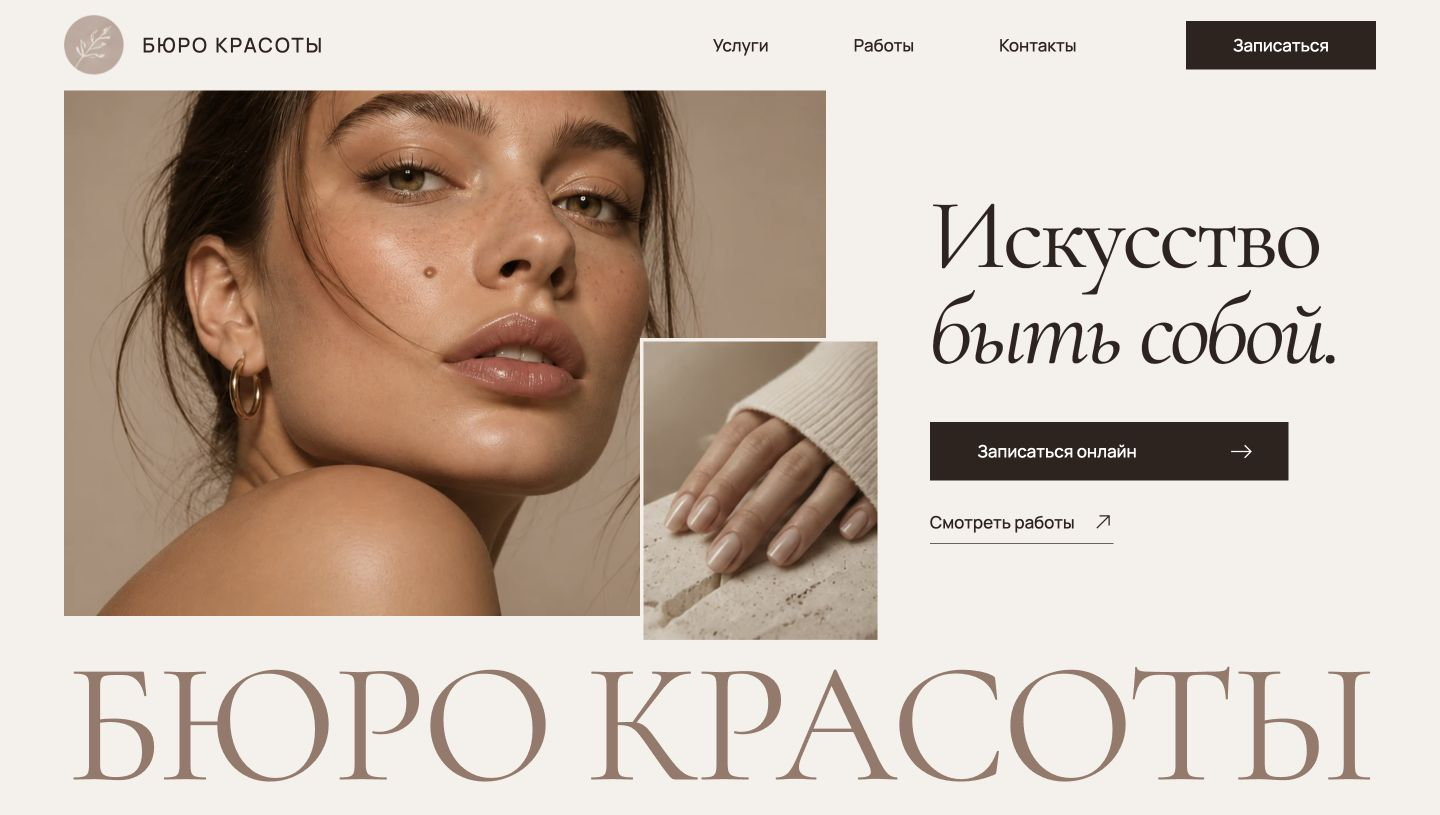
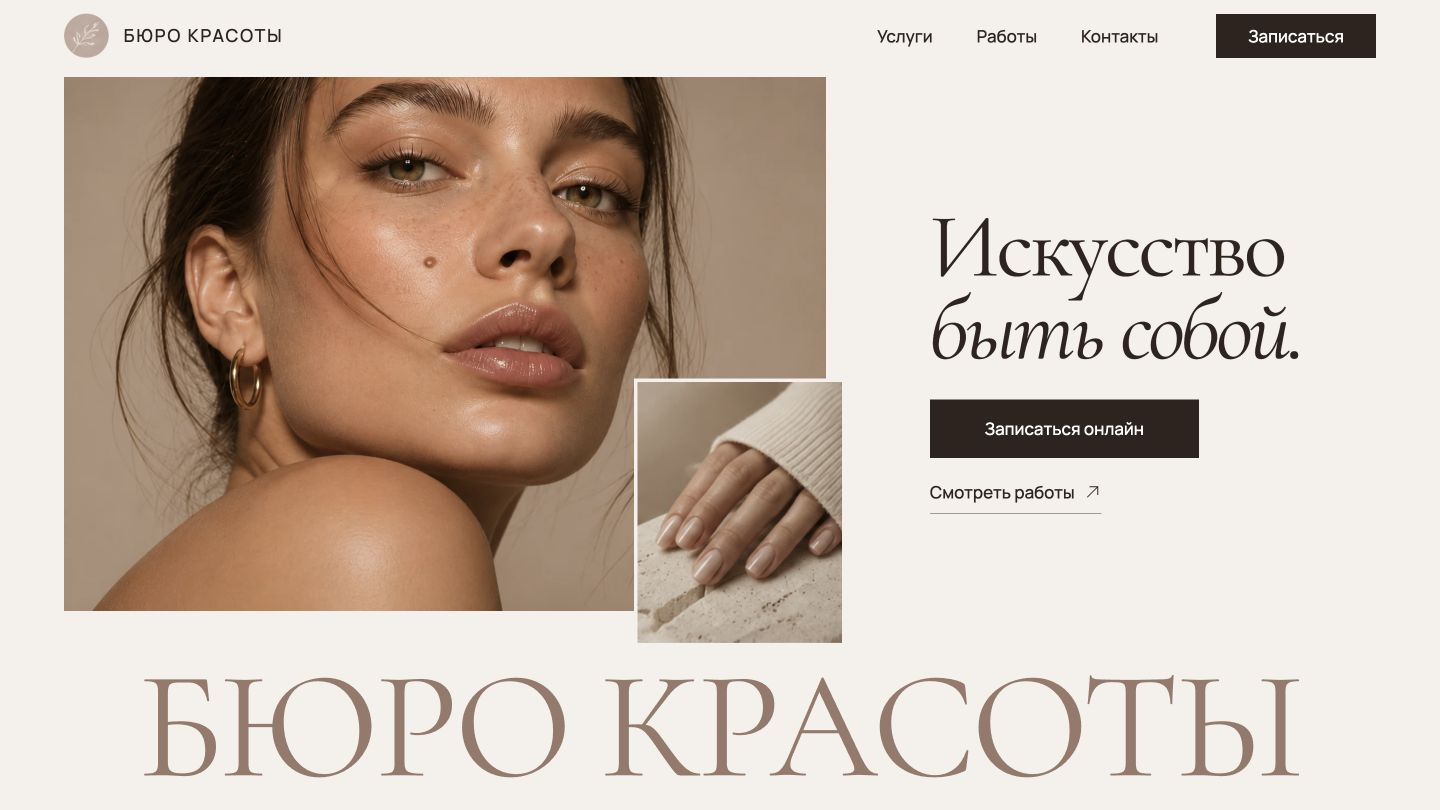
Refine the desktop hero composition

diff --git a/styles.css b/styles.css
@@ -119,7 +119,7 @@ svg { flex: none; }
 .site-nav {
   display: flex;
   align-items: center;
-  gap: clamp(26px, 5.9vw, 108px);
+  gap: clamp(27px, 3.05vw, 56px);
   margin-inline-start: auto;
 }
 
@@ -167,8 +167,8 @@ svg { flex: none; }
 .button:active { background: var(--ink-hover); }
 
 .header-booking {
-  min-inline-size: clamp(132px, 13.2vw, 240px);
-  min-block-size: clamp(44px, 3.35vw, 59px);
+  inline-size: clamp(140px, 11.11vw, 160px);
+  min-block-size: 44px;
   white-space: nowrap;
 }
 
@@ -241,12 +241,9 @@ svg { flex: none; }
   border-bottom: 0;
 }
 
-.hero__intro { margin-block-start: clamp(62px, 7.35vw, 144px); }
-
 .hero-title {
-  margin: 0 0 clamp(29px, 3vw, 58px);
+  margin: 0;
   font-family: var(--serif);
-  font-size: clamp(64px, 6.9vw, 100px);
   font-weight: 400;
   letter-spacing: -0.035em;
   line-height: 0.96;
@@ -275,25 +272,66 @@ svg { flex: none; }
 
 @media (min-width: 1600px) {
   :root { --gutter: clamp(64px, 4.17vw, 80px); }
-
-  .hero-title { font-size: clamp(100px, 6.05vw, 116px); }
 }
 
 @media (min-width: 900px) {
+  :root {
+    --header-height: clamp(64px, 4.72vw, 72px);
+    --mark-size: clamp(34px, 3.14vw, 54px);
+  }
+
+  .site-header {
+    gap: clamp(32px, 4vw, 76px);
+    padding-block-start: calc(env(safe-area-inset-top) + 4px);
+  }
+
+  .site-header .brand {
+    gap: clamp(11px, 1vw, 18px);
+    font-size: clamp(14px, 1.23vw, 21px);
+  }
+
+  .hero {
+    --hero-top: clamp(6px, 0.62vw, 12px);
+    --collage-overhang: clamp(22px, 2.25vw, 43px);
+    --wordmark-gap: clamp(16px, 1.65vw, 30px);
+    --wordmark-size: clamp(68px, 11.72cqi, 220px);
+    padding-block-start: var(--hero-top);
+  }
+
   .collage__portrait {
     /* Leave room for the masthead when a wide viewport is relatively short. */
     --wordmark-height: calc(var(--wordmark-size) * var(--wordmark-leading));
-    max-block-size: max(300px, calc(100svh - var(--header-height) - env(safe-area-inset-top)
+    max-block-size: max(300px, calc(100svh - var(--header-height) - env(safe-area-inset-top) - var(--hero-top)
       - var(--collage-overhang) - var(--wordmark-gap) - var(--wordmark-height) - var(--hero-bottom)));
   }
 
-  .hero__actions .button--arrow {
-    padding-inline: clamp(20px, 3.3vw, 55px) clamp(20px, 2.4vw, 45px);
-  }
-}
+  .collage__portrait img { object-position: 50% 28%; }
 
-@media (min-width: 900px) and (max-height: 820px) {
-  .hero__intro { margin-block-start: min(7.35vw, 12svh); }
+  .collage__manicure {
+    width: 25.6%;
+    inset-inline-end: clamp(23px, 2.45vw, 46px);
+  }
+
+  .hero__intro { align-self: center; }
+
+  .hero-title {
+    margin-block-end: clamp(21px, 2vw, 38px);
+    font-size: clamp(61px, 6.28vw, 106px);
+    line-height: 0.91;
+  }
+
+  .hero__actions { gap: clamp(8px, 0.85vw, 16px); }
+
+  .hero__actions .button--arrow {
+    inline-size: min(100%, clamp(184px, 18.67vw, 360px));
+    justify-content: center;
+  }
+
+  .hero__actions .button__icon { display: none; }
+
+  .works-link { gap: clamp(7px, 0.62vw, 12px); }
+  .works-link::after { opacity: 0.42; }
+  .works-link__icon { width: 18px; height: 18px; }
 }
 
 @media (width < 900px) {

diff --git a/design-qa.md b/design-qa.md
@@ -4,7 +4,7 @@
 
 | Режим | Референс | Результат |
 | --- | --- | --- |
-| Десктоп | Первый референс, 2516 × 1424 | [1440 × 815](previews/desktop-1440.jpg) |
+| Десктоп | Первый референс, 2516 × 1424 | [1440 × 810](previews/desktop-1440.jpg) |
 | Короткий ноутбук | Тот же десктопный макет | [1440 × 740](previews/laptop-1440x740.jpg) |
 | Мобильный | Второй референс, 314 × 670 | [390 × 844](previews/mobile-390.jpg) |
 | Открытое меню | Требования из задания | [390 × 844](previews/mobile-menu-390.jpg) |
@@ -17,7 +17,7 @@
 - На телефоне отступы составляют 16–24 px. Портрет кадрирован отдельной версией того же снимка. Вставка занимает около 34% ширины экрана. Пропорции портрета оставляют место для заголовка и кнопки записи над сгибом при высотах 568–932 px. Название салона набрано в две строки.
 - Cormorant Garamond и Manrope подключены локально. Вторая строка использует отдельный файл Italic. Нижняя надпись масштабируется размером шрифта и трекингом. Контраст основного текста к фону 13,27:1, белого к фону кнопки 15,03:1, крупного названия к фону 3,51:1.
 - Маникюр и знак взяты из первого референса. Портрет восстановлен через ImageGen с заполнением области под вставкой. Эти изображения иллюстрируют концепцию. Ссылка «Смотреть работы» ведёт к галерее карточки салона.
-- На первой сверке правая часть названия выходила за линию контейнера на 1440 px. Уменьшены размер надписи и свободный вертикальный запас на широких коротких экранах. Повторные снимки 1440 × 815 и 1440 × 740 показывают надпись целиком. На промежуточных мобильных ширинах ограничена высота портрета, чтобы поднять кнопку записи.
+- На промежуточных мобильных ширинах ограничена высота портрета, чтобы поднять кнопку записи. Снимки 1440 × 810 и 1440 × 740 показывают нижнюю надпись целиком.
 
 ## Проверка в браузере
 
@@ -27,5 +27,13 @@
 - Меню проверено мышью и клавиатурой. Фокус переходит к кнопке закрытия и циклически перемещается внутри панели. Кнопка и Escape закрывают меню и возвращают фокус. При открытии на прокрученной странице подтверждено сохранение позиции 40 px и восстановление после закрытия.
 - Проверены загрузка ресурсов, последовательность CSS-анимаций и отсутствие ошибок в консоли. Режим prefers-reduced-motion отключает анимации появления и переходы в CSS. Мобильные проверки проведены в браузерной эмуляции.
 - [YCLIENTS](https://n1221136.yclients.ru/) открывает выбор услуг салона на Московском проспекте, 19. Ссылки на услуги, фотографии и контакты проверены по [карточке салона](https://yandex.ru/maps/org/byuro_krasoty/233790800142/).
+
+## Доработка десктопа
+
+- На ширине 1440 px высота шапки составляет 68 px, логотип уменьшен с 60 до 45 px, кнопка в шапке занимает 160 × 44 px. Сокращены промежутки между ссылками навигации.
+- Фотография маникюра примерно на 12% уже, её центр смещён влево, нижний край опущен. Основной портрет сохраняет масштаб и наложение фотографий.
+- Текстовый блок центрирован по высоте коллажа. Основная кнопка примерно на четверть уже, текст выровнен по центру. Нижняя надпись уменьшена на 11%.
+- Проверены 1280 × 720, 1440 × 810, 1440 × 740, 1920 × 1080 и 2560 × 1440. Заголовок, кнопки, фотографии и нижняя надпись помещаются в первый экран. Горизонтального скролла нет.
+- Мобильный снимок 390 × 844 совпал с предыдущим попиксельно. Повторно проверены открытие меню с клавиатуры, Escape, блокировка прокрутки и возврат фокуса. Ошибок в консоли нет.
 
 final result: passed
